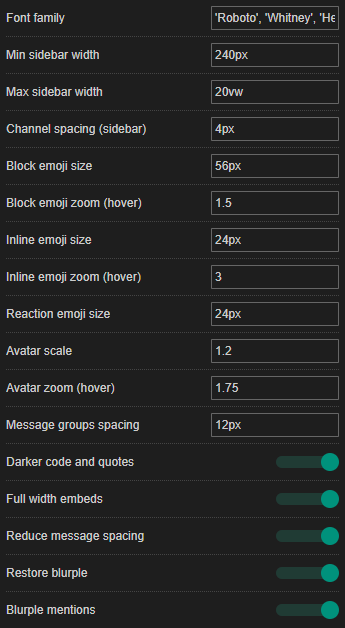
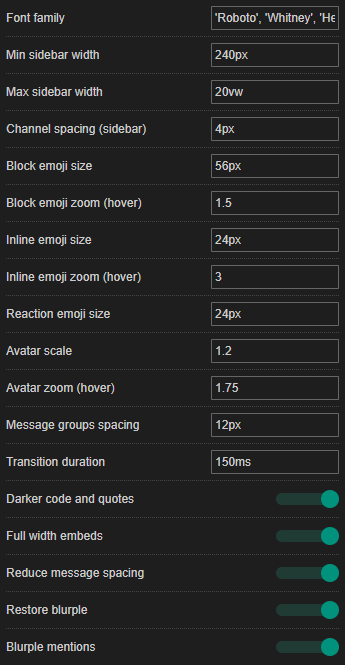
Exposed transition as setting.

diff --git a/discord/discord-customization/discord-customization.user.css b/discord/discord-customization/discord-customization.user.css
@@ -1,7 +1,7 @@
 /* ==UserStyle==
 @name           Discord - Customization
 @description    Provides some extra customization options for Discord.
-@version        2023.07.29.20.59
+@version        2023.07.29.21.37
 @author         MetalTxus
 @namespace      https://github.com/jesuscc1993/
 @license        CC BY-SA 4.0
@@ -19,6 +19,7 @@
 @var text avatar-scale               "Avatar scale"                unset
 @var text avatar-zoom                "Avatar zoom (hover)"         unset
 @var text group-spacing              "Message groups spacing"      unset
+@var text transition                 "Transition duration"         150ms
 @var checkbox darker-quotes          "Darker code and quotes"      0
 @var checkbox full-width-embeds      "Full width embeds"           0
 @var checkbox reduce-message-spacing "Reduce message spacing"      0
@@ -40,6 +41,7 @@
     --group-spacing: @group-spacing;
     --max-sidebar-width: @max-sidebar-width;
     --min-sidebar-width: @min-sidebar-width;
+    --transition: @transition;
   }
 
   html.theme-dark {
@@ -103,7 +105,7 @@
 
     [class*="sidebar-"],
     [class*="membersWrap"] {
-      transition: 0.2s;
+      transition: var(--transition);
       transition-delay: 0.2s;
       z-index: 101;
     }
@@ -169,7 +171,7 @@
 
   html when not (@avatar-zoom =unset) {
     [class*="messageListItem"] img[class*="avatar"] {
-      transition: 150ms;
+      transition: var(--transition);
 
       &:hover {
         transform: scale(var(--avatar-zoom)) !important;
@@ -206,7 +208,7 @@
     }
 
     img.emoji {
-      transition: 150ms;
+      transition: var(--transition);
       z-index: 1;
       position: relative;
 
